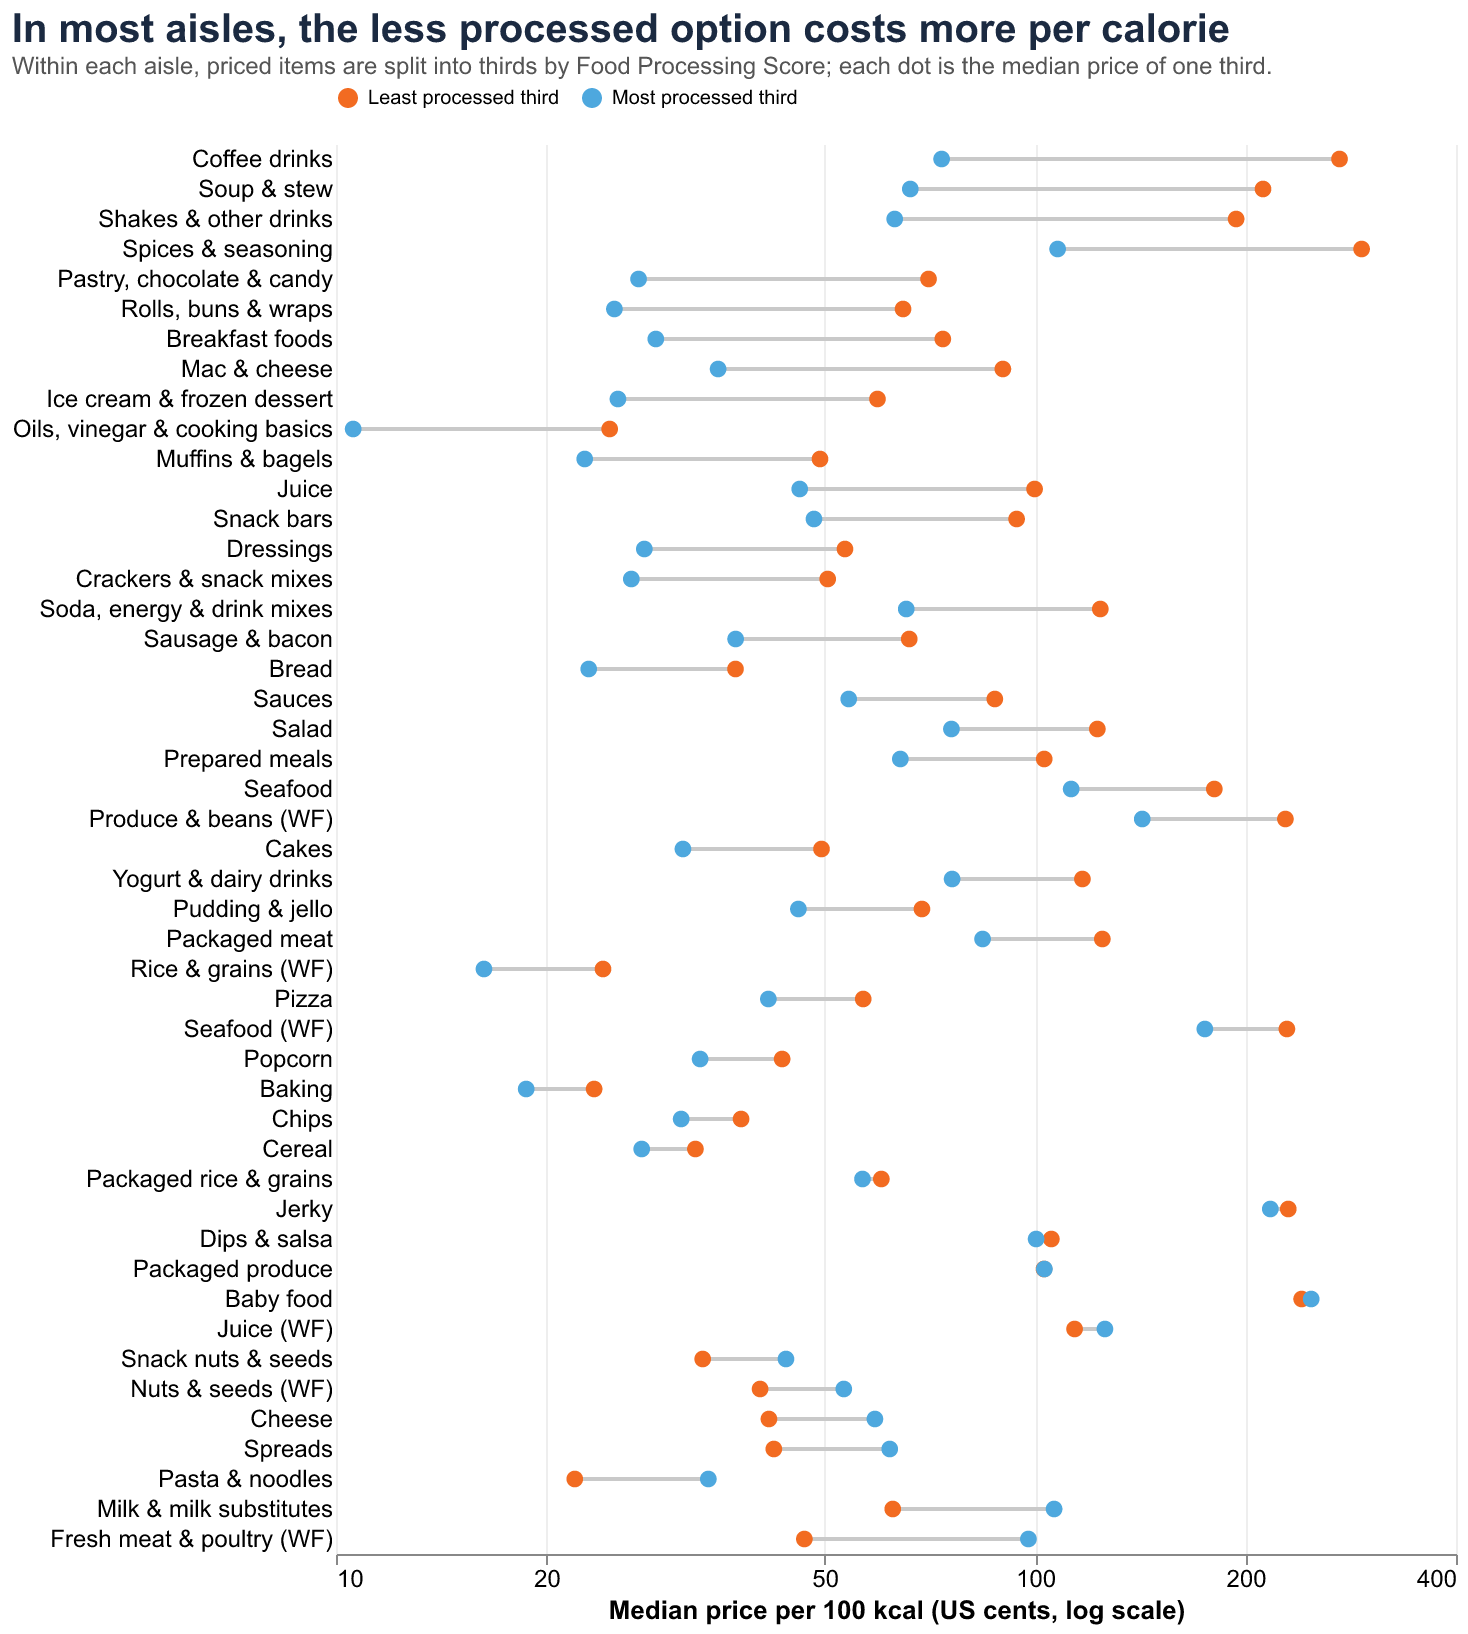
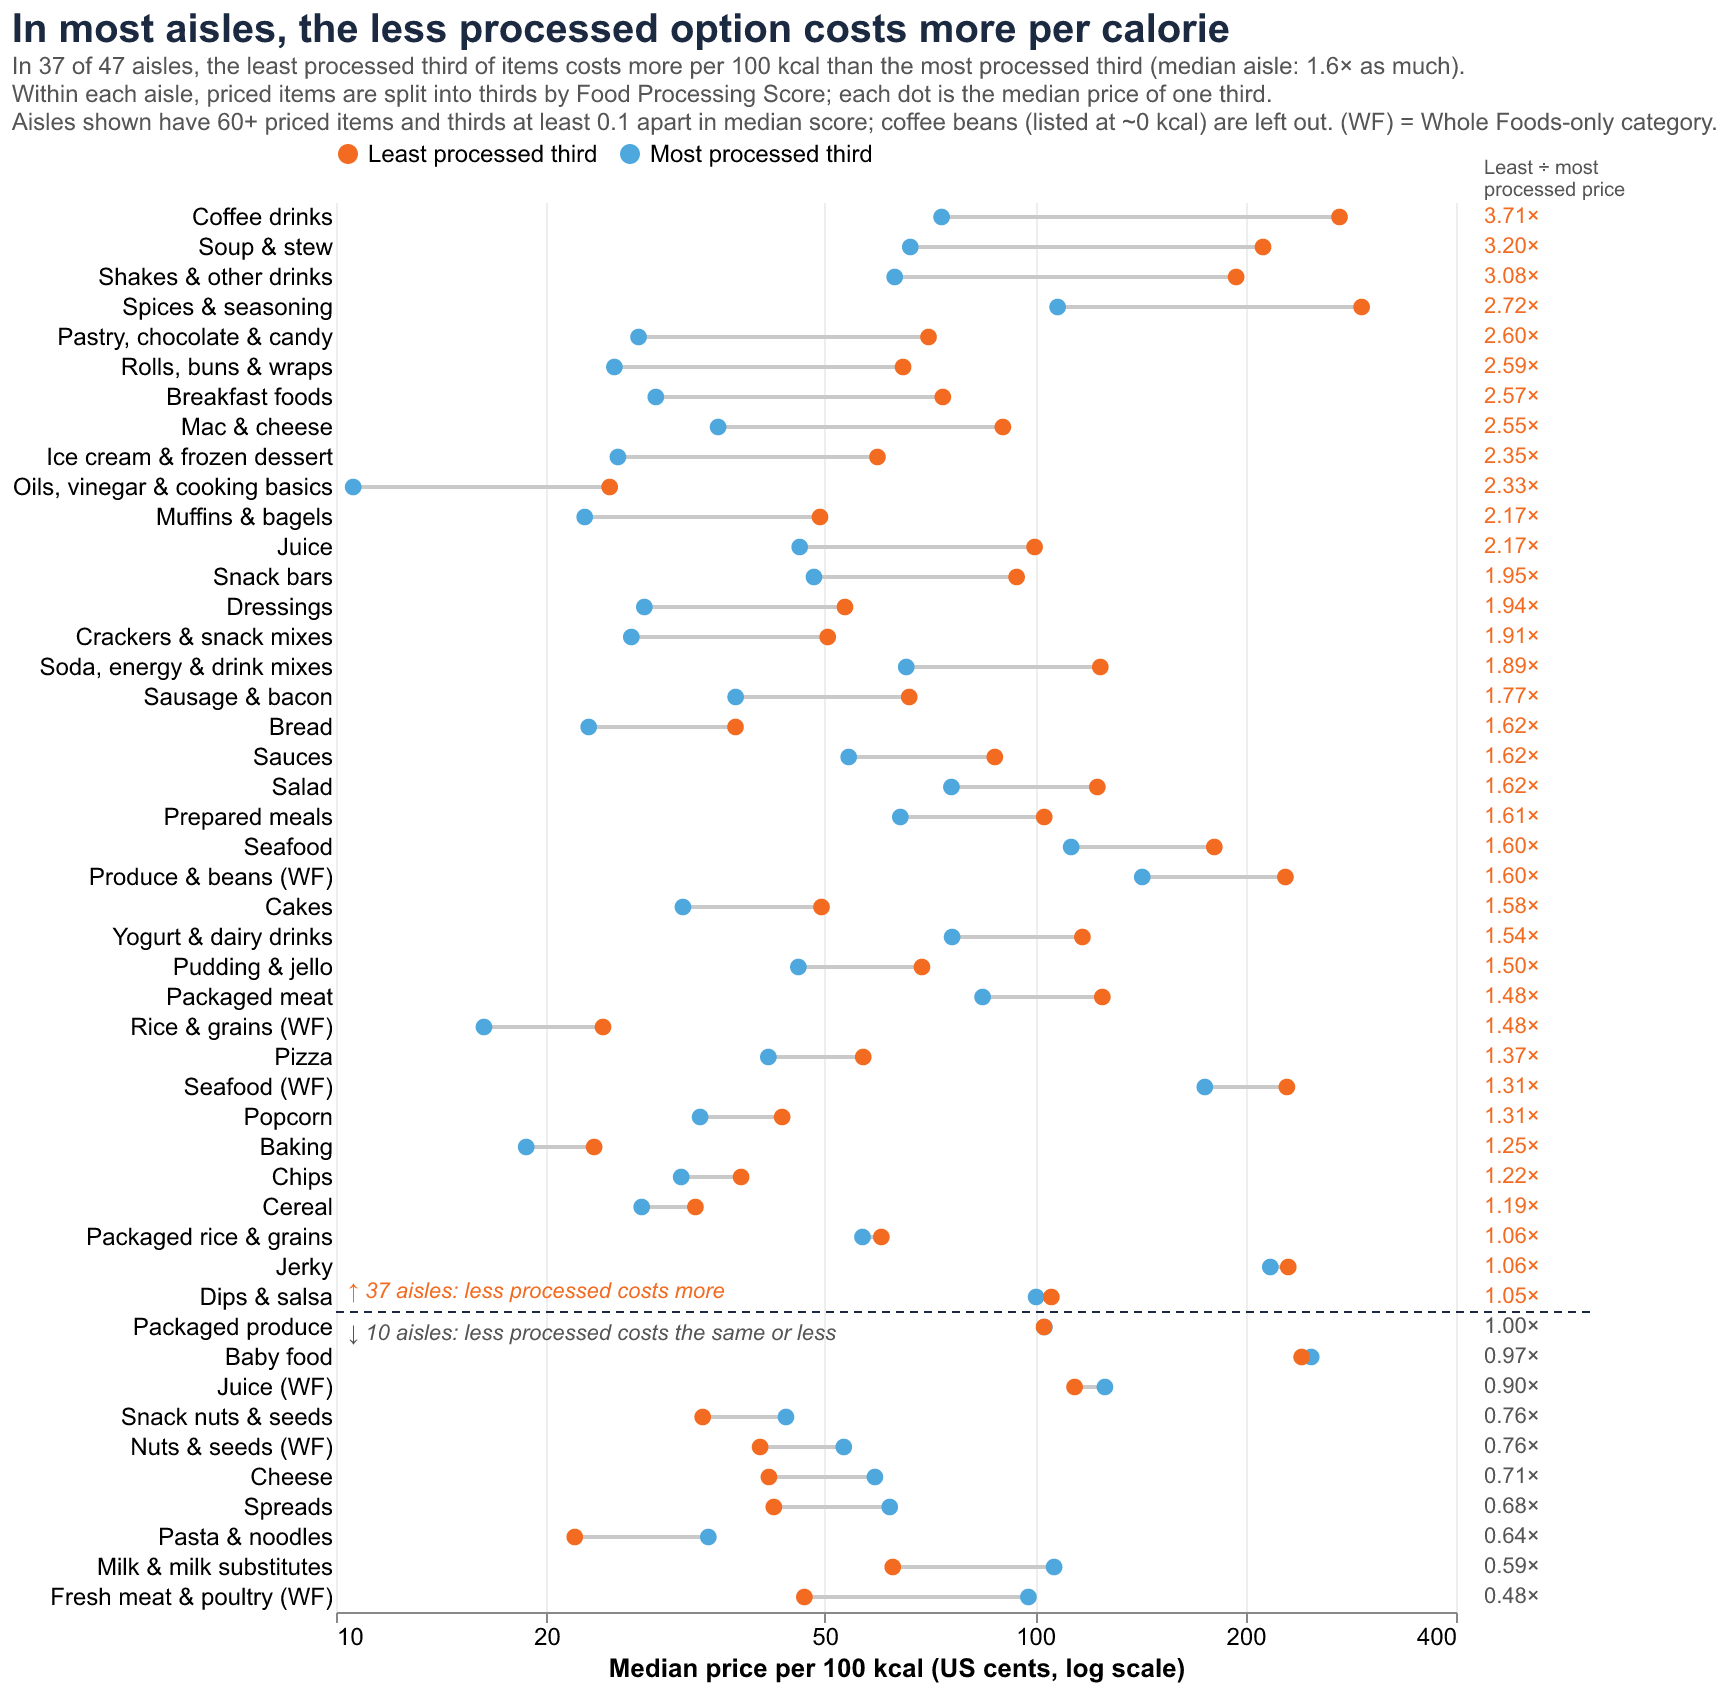
Project 1: add price ratios and a divider to plot 1, state filters in the subtitle

diff --git a/Project-1/project1/aisle_price_plot.py b/Project-1/project1/aisle_price_plot.py
@@ -4,16 +4,25 @@ from __future__ import annotations
 import altair as alt
 import pandas as pd
 
-from project1.theme import ACCENT, CONTEXT, DARK, apply_theme
+from project1.config import MIN_AISLE_ITEMS, MIN_THIRDS_GAP
+from project1.theme import ACCENT, CONTEXT, DARK, SUBTITLE, apply_theme
 
 LEAST: str = "Least processed third"
 MOST: str = "Most processed third"
 
 ROW_HEIGHT: int = 15
+PLOT_WIDTH: int = 560
+
+# Gap between the plot's right edge and the ratio column, in pixels.
+RATIO_COLUMN_OFFSET: int = 14
 
 
 def build_aisle_price_plot(thirds: pd.DataFrame) -> alt.TopLevelMixin:
     """Draw one row per aisle with a dot for each third, joined by a line.
+
+    A ratio column on the right repeats the gap as a number, and a divider
+    separates aisles where the less processed third costs more from those
+    where it costs less.
 
     Args:
         thirds: Output of :func:`project1.data.aisle_price_thirds`, sorted by ratio.
@@ -21,11 +30,17 @@ def build_aisle_price_plot(thirds: pd.DataFrame) -> alt.TopLevelMixin:
     Returns:
         A themed Altair chart ready to be saved.
     """
+    thirds = thirds.assign(
+        ratio_text=thirds["ratio"].map(lambda r: f"{r:.2f}×"),
+        pricier=thirds["ratio"] > 1,
+    )
+    n_pricier = int(thirds["pricier"].sum())
+    n_aisles = len(thirds)
     order = list(thirds["label"])
     long = pd.concat(
         [
-            thirds.assign(third=LEAST, cents=thirds["cents_low"]),
             thirds.assign(third=MOST, cents=thirds["cents_high"]),
+            thirds.assign(third=LEAST, cents=thirds["cents_low"]),
         ]
     )
     y = alt.Y("label:N", sort=order, title=None, axis=alt.Axis(ticks=False, domain=False))
@@ -50,19 +65,63 @@ def build_aisle_price_plot(thirds: pd.DataFrame) -> alt.TopLevelMixin:
             color=alt.Color(
                 "third:N",
                 scale=alt.Scale(domain=[LEAST, MOST], range=[ACCENT, CONTEXT]),
-                legend=alt.Legend(title=None, orient="top", direction="horizontal"),
+                legend=alt.Legend(title=None, orient="top", direction="horizontal", labelFontSize=12),
             ),
-            tooltip=["label", "third", alt.Tooltip("cents:Q", format=".0f")],
+            tooltip=["label", "third", alt.Tooltip("cents:Q", format=".0f"), "n"],
         )
     )
+    ratio_x = alt.value(PLOT_WIDTH + RATIO_COLUMN_OFFSET)
+    ratios = (
+        alt.Chart(thirds)
+        .mark_text(align="left", fontSize=11)
+        .encode(
+            y=y,
+            x=ratio_x,
+            text="ratio_text:N",
+            color=alt.condition("datum.pricier", alt.value(ACCENT), alt.value(SUBTITLE)),
+        )
+    )
+    ratio_header = (
+        alt.Chart(pd.DataFrame({"text": [["Least ÷ most", "processed price"]]}))
+        .mark_text(align="left", baseline="bottom", fontSize=10, color=SUBTITLE, lineHeight=11)
+        .encode(x=ratio_x, y=alt.value(-12), text="text")
+    )
+    divider_y = ROW_HEIGHT * n_pricier
+    divider = (
+        alt.Chart(pd.DataFrame({"y": [divider_y]}))
+        .mark_rule(color=DARK, strokeDash=[4, 3], strokeWidth=1)
+        .encode(y=alt.value(divider_y), x=alt.value(0), x2=alt.value(PLOT_WIDTH + 70))
+    )
+    above_note = _divider_note(
+        f"↑ {n_pricier} aisles: less processed costs more", divider_y - 5, "bottom", ACCENT
+    )
+    below_note = _divider_note(
+        f"↓ {n_aisles - n_pricier} aisles: less processed costs the same or less", divider_y + 5, "top", SUBTITLE
+    )
+    median_ratio = thirds["ratio"].median()
     title = alt.TitleParams(
         "In most aisles, the less processed option costs more per calorie",
         subtitle=[
+            f"In {n_pricier} of {n_aisles} aisles, the least processed third of items costs more per "
+            f"100 kcal than the most processed third (median aisle: {median_ratio:.1f}× as much).",
             "Within each aisle, priced items are split into thirds by Food Processing Score; "
             "each dot is the median price of one third.",
+            f"Aisles shown have {MIN_AISLE_ITEMS}+ priced items and thirds at least "
+            f"{MIN_THIRDS_GAP} apart in median score; coffee beans (listed at ~0 kcal) are left out. "
+            "(WF) = Whole Foods-only category.",
         ],
         color=DARK,
     )
-    return apply_theme(
-        (links + dots).properties(width=560, height=ROW_HEIGHT * len(thirds), title=title)
+    chart = alt.layer(links, divider, dots, ratios, ratio_header, above_note, below_note).properties(
+        width=PLOT_WIDTH, height=ROW_HEIGHT * n_aisles, title=title
+    )
+    return apply_theme(chart)
+
+
+def _divider_note(text: str, y_px: float, baseline: str, color: str) -> alt.Chart:
+    """Italic caption pinned to the left end of the divider, above or below it."""
+    return (
+        alt.Chart(pd.DataFrame({"text": [text]}))
+        .mark_text(align="left", baseline=baseline, fontSize=11, fontStyle="italic", color=color)
+        .encode(x=alt.value(6), y=alt.value(y_px), text="text:N")
     )
